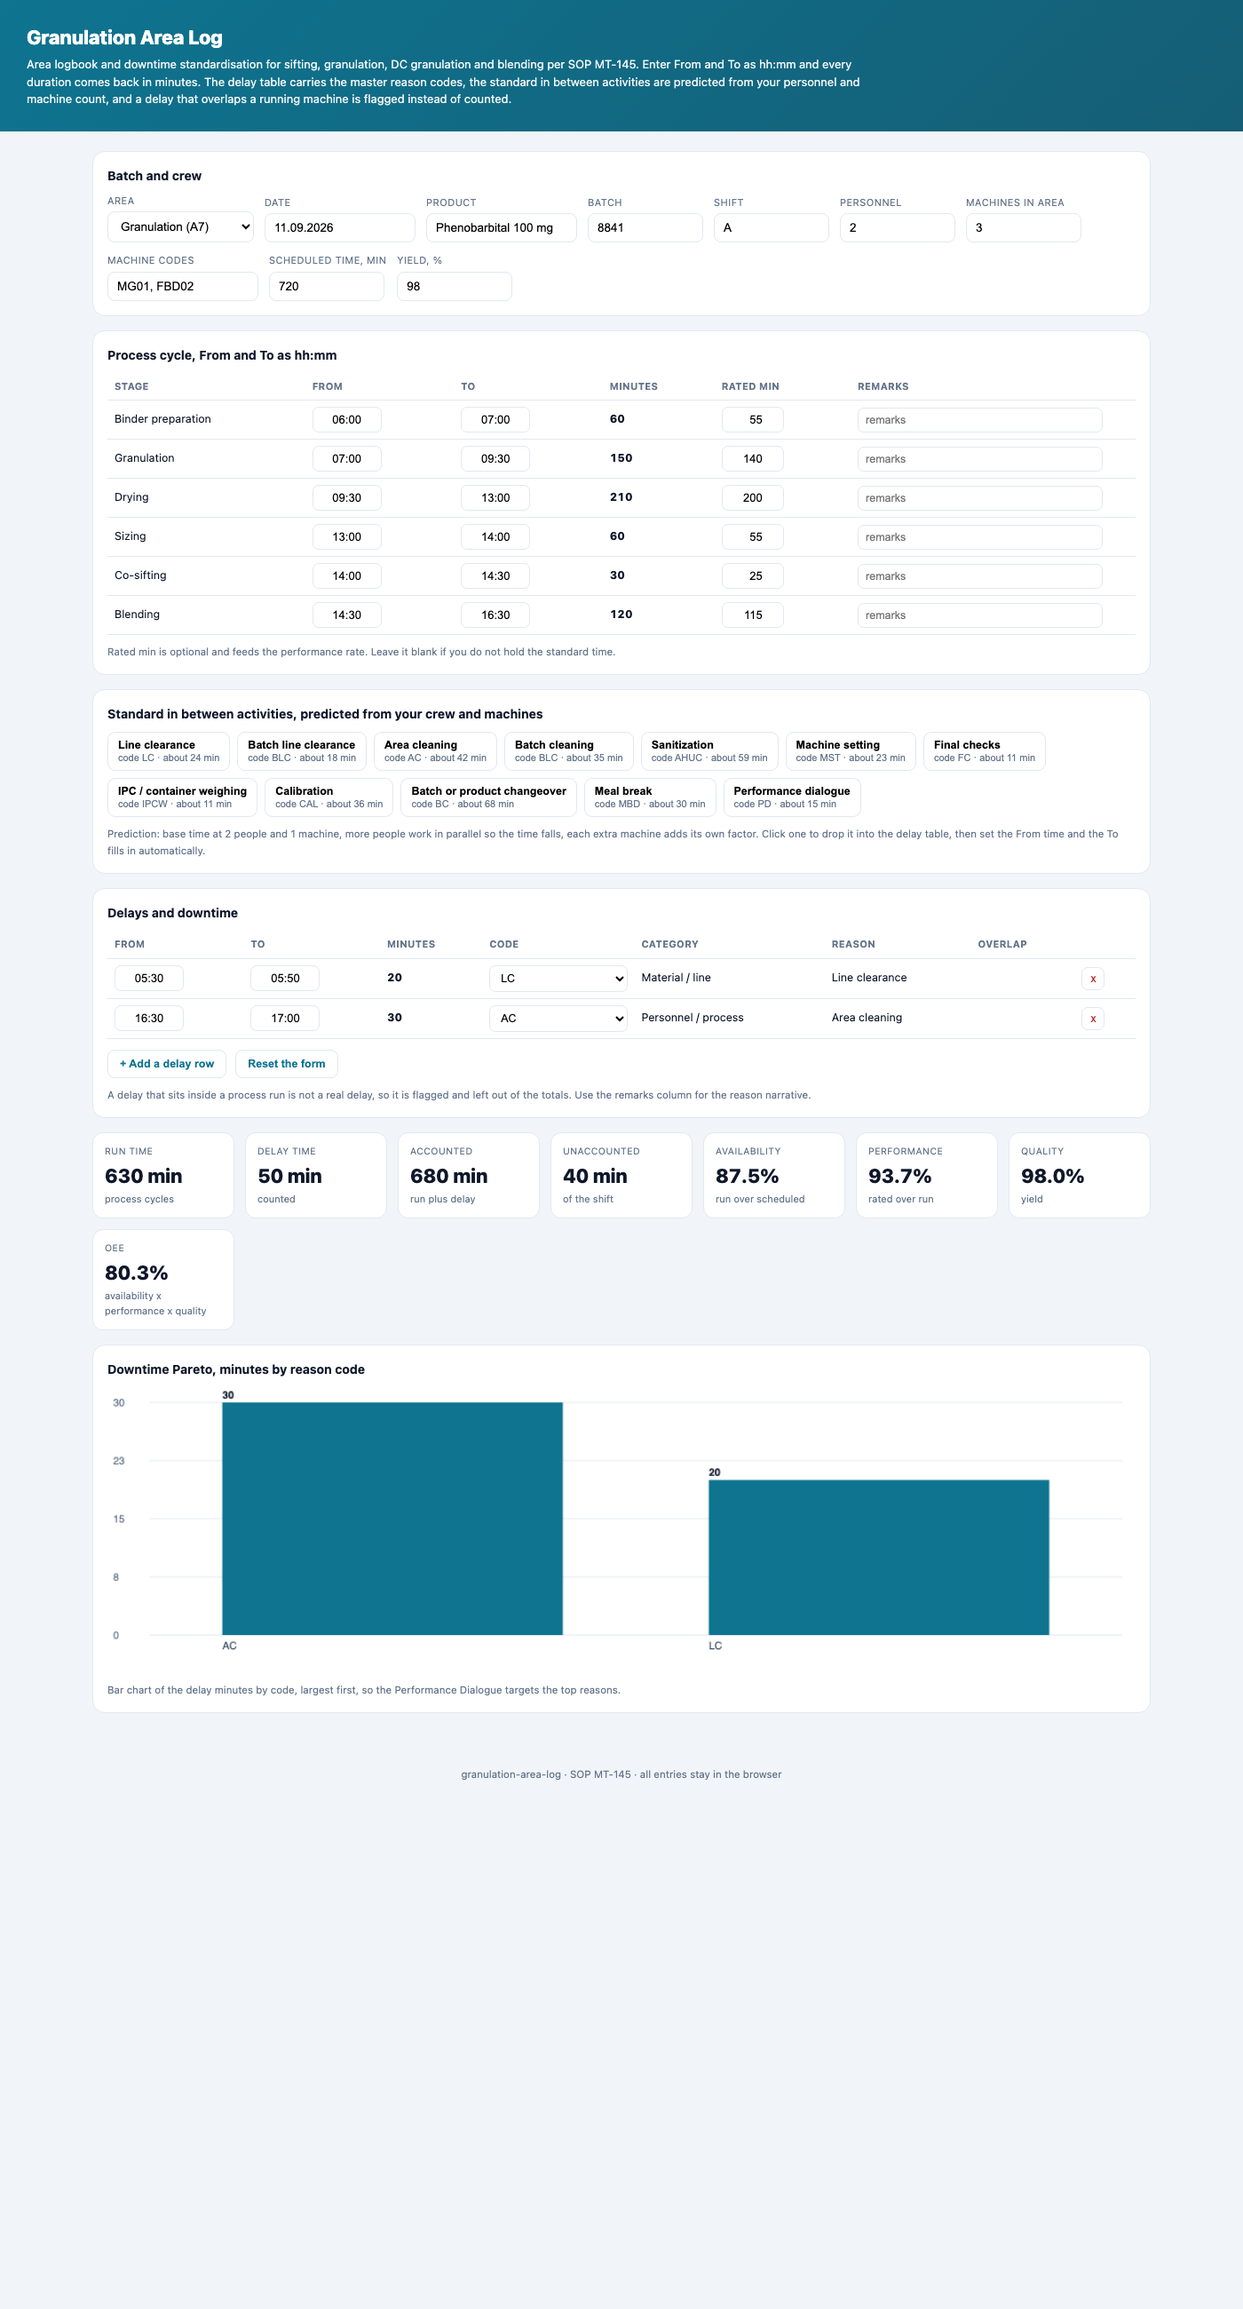
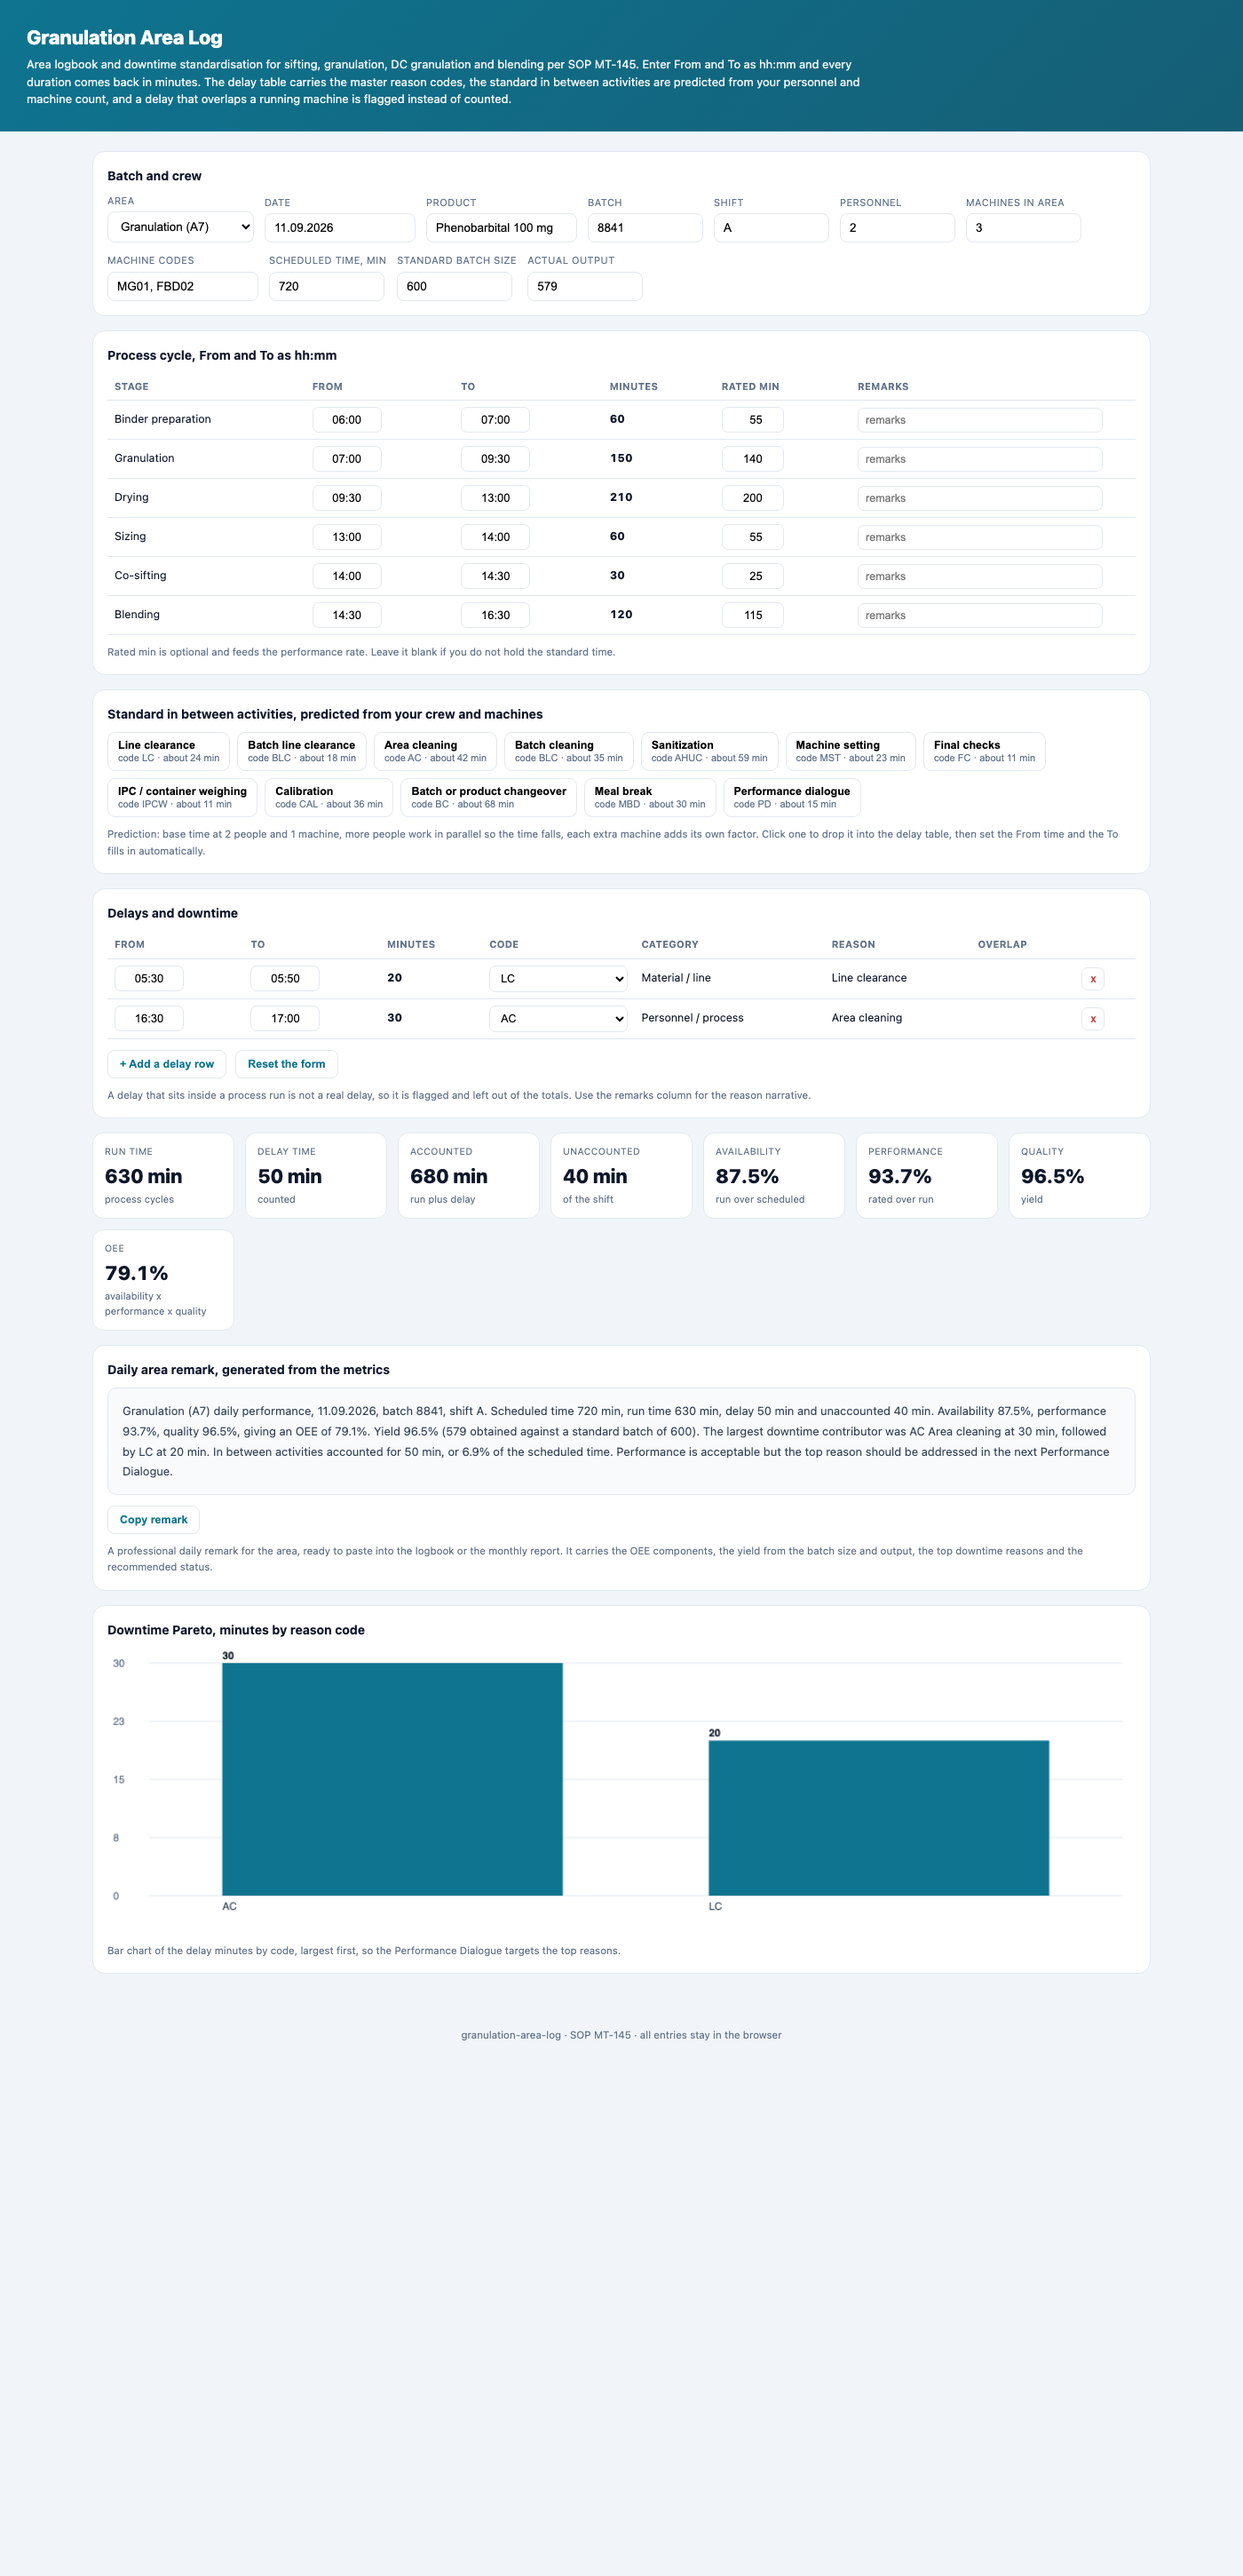
Bump granulation area log card for yield and remark

diff --git a/index.html b/index.html
@@ -85,7 +85,7 @@
       <div class="chips">
         <span class="chip">Chemical Engineer</span>
         <span class="chip">cGMP solid dosage</span>
-        <span class="chip">256 unit tests passing</span>
+        <span class="chip">264 unit tests passing</span>
         <span class="chip">13 live demos</span>
       </div>
       <div class="heroLinks">
@@ -253,8 +253,8 @@ const PROJECTS = [
    img:'previews/cumulative-hold-time-calculator.png', desc:'Field calculator on the 24 hour clock: differences between any taken and processed date times, a running total of hh:mm durations against the 72:00 hold limit, and a valid up to date and time from a validity period.',
    badges:['Excursion flag','Python','19 tests']},
   {name:'Granulation Area Log', repo:'granulation-area-log', cat:'osd', tag:'SOP MT-145 · process cycles · downtime codes',
-   img:'previews/granulation-area-log.png', desc:'Per area process cycle tables with From and To as hh:mm returning minutes, the master downtime reason codes, standard in between activities predicted from personnel and machines, an overlap check that flags a delay inside a running process, and OEE with a downtime Pareto.',
-   badges:['SOP MT-145','Python','22 tests']},
+   img:'previews/granulation-area-log.png', desc:'Per area process cycle tables with From and To as hh:mm returning minutes, the master downtime reason codes, standard in between activities predicted from personnel and machines, an overlap check that flags a delay inside a running process, computed yield from batch size and output, OEE with a downtime Pareto, and an auto generated daily area remark.',
+   badges:['SOP MT-145','Python','30 tests']},
   {name:'Granulation QC Calculator', repo:'granulation-qc-calculator', cat:'osd', tag:'PSD sieve analysis · LOD · densities · USP 1174',
    img:'previews/granulation-qc-calculator.png', desc:"Sieve weights to % w/w with the batch record rounding, cumulative above and below 60#, fines and loss cross checks, Carr's Index and Hausner Ratio with USP and Ph. Eur. flow ratings, and a live ease of compression verdict, then a DLT 50/300/300 press profile that recommends the turret output and flags sticking and capping risk with corrective actions.",
    badges:['USP 1174','DLT press profile','54 tests']},

diff --git a/README.md b/README.md
@@ -7,7 +7,7 @@ dependency-free Python library, unit tests and a live interactive dashboard.
 
 [![Live index](https://img.shields.io/badge/live%20index-github%20pages-0e7490)](https://marknwilliam.github.io/manufacturing-analytics/)
 [![Python](https://img.shields.io/badge/python-3.9%2B-blue)](#)
-[![Tests](https://img.shields.io/badge/tests-256%20passing-green)](#)
+[![Tests](https://img.shields.io/badge/tests-264%20passing-green)](#)
 [![Tools](https://img.shields.io/badge/tools-11-orange)](#)
 
 </div>
@@ -77,7 +77,7 @@ that opens offline.
   logistic regression, cost build-up and material yield, punch sticking
   scores, USP &lt;905&gt; Acceptance Value, as is assay correction, hold time limits, the USP flow character table
   and the Heckel, Ryshkewitch-Duckworth and Leuenberger compaction models.
-- **Testable** — `256` unit tests across the thirteen modules; run any of them
+- **Testable** — `264` unit tests across the thirteen modules; run any of them
   with `python3 -m unittest test_*.py`.
 - **Zero-dependency dashboards** — plain HTML/CSS/JS with the native canvas
   API; no build step, no npm, works offline.
